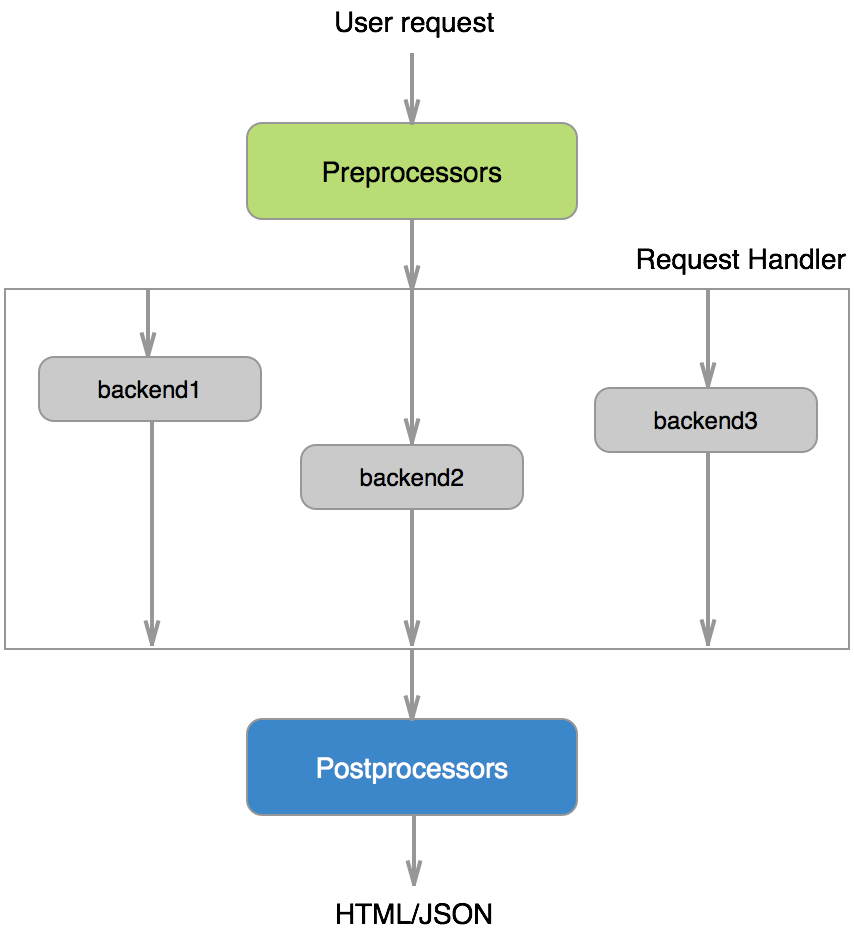
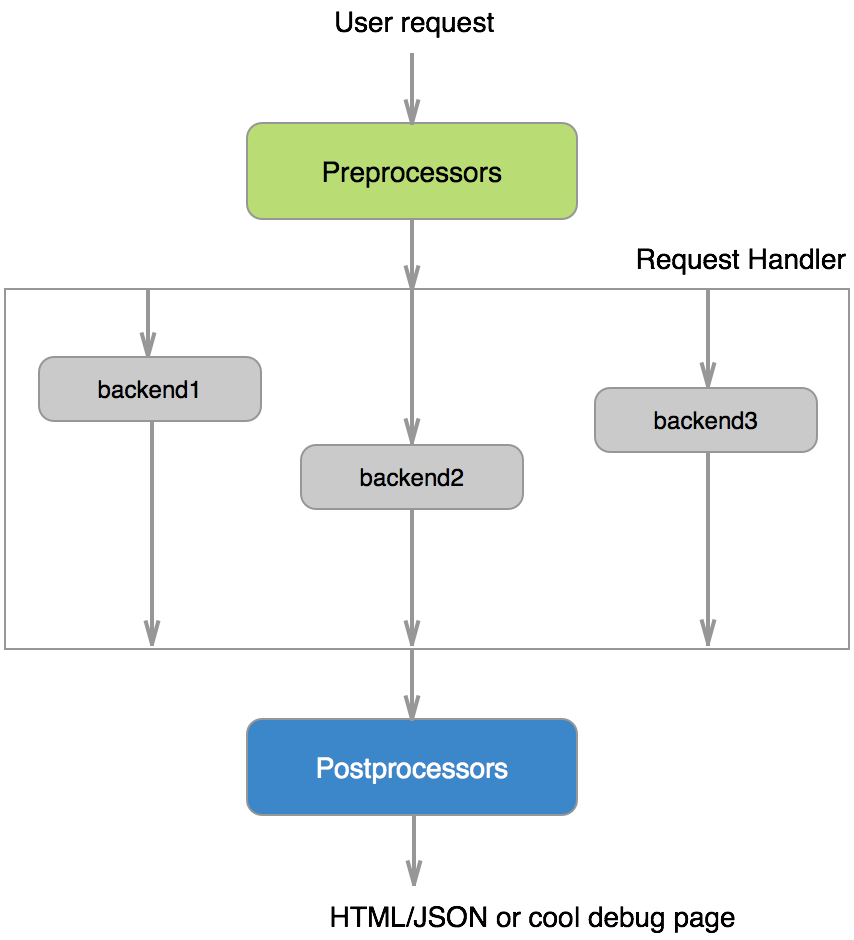
more documentation

Changed region(s): [[0.3653, 0.9564, 0.8525, 1.0]]

diff --git a/index.html b/index.html
@@ -24,8 +24,7 @@
 	    <div class="content">
 	    	<p>Provides a group of asynchronous handlers before main handler starts to work.</p>
 	    	<p><pre>
-<code>
-def session(handler, callback):
+<code>def session(handler, callback):
 	def _cb():
         # json/xml parsed automatically and put into handler.responses[&lt;request name&gt;].data
         handler.session = handler.responses['session'].data
@@ -40,22 +39,90 @@ def session(handler, callback):
             data=data, # data is a dict of parameters to pass to backend
         ),
         callback=_cb,
-        stage='session'
+        stage='session' # something about stages goes later
     )
 
-def PageHandler(tortik.page.RequestHandler):
+def Page(tortik.page.RequestHandler):
 	preprocessors = [
 	    session,
 	    pagedata
 	]
 
 	def get(self):  # all get/post/.. methods are asynchronous by default
-	    # handler.session available now
+	    # self.session is available now
 	    self.complete() # use it instead of self.finish to apply postprocessors 
-
 </code></pre></p>
 	    </div>
 
+	    <h2>Stages</h2>
+        <div class="content">
+            <p>All the request handling could be divided into parts: fetching session, do some user related stuff (request backends for data or post smth.), render a page. This parts are called stages in Tortik. Stages provide a better way to find perfomance issues or bottlenecks in your application.</p>
+            <p>Stage name could be passed as a parameter to <i>fetch_requests</i> method (default is <i>page</i>):</p>
+<p><pre><code class="python">handler.fetch_requests(
+    ...
+    callback=_cb,
+    stage='session'
+)                
+</code></pre></p>   
+            <p>or could be done manually:</p>         
+            <p><pre>
+<code>handler.log.stage_started('render')
+# do some hard render stuff
+handler.log.stage_complete('render')</code></pre></p>   
+            <p>After request handle completed a debug note would be printed:</p>
+            <p><pre>
+<code>MONIK handler=hhmobile.pages.Page method=GET code=200 total=93 session=13.98 page=47.14 render=21.77 translation=7.30</code></pre></p>   
+            <p>which means that request done with <i>hhmobile.pages.Page</i> and took total 93ms with stages: session, page, render and translation</p>
+        </div>  
+
+	    <h2>Request handler</h2>
+        <div class="content">
+            <p>All the standart Tornado method handlers (get, post, ...) are @asynchronous by default and you don't need to put this decorator every time.</p>
+            <p>The output data could be prepared by two ways:</p>
+            <ul>
+                <li>with <i>self.add</i> method</li>
+                <li>as an argument to <i>self.complete</i> </li>
+            </ul>
+<p><pre><code class="python">def Page(tortik.page.RequestHandler):
+    self.add('main_data', 'Hello, World!')
+    self.complete({'some_data': 'Hello, World!'})
+</code></pre></p>
+            <p>The difference is that in the second option your data passes directly to the postprocessors (more on them later) or to the <i>self.finish</i> method if there is no postprocessors in your handler.</p>
+            <p>In the first option your data is available in <i>self.data</i> dictionary and could be processed later.</p>
+        </div>
+
+        <h2>Postprocessors</h2>
+        <div class="content">
+        <p>Postprocessors is a set of handlers on your output data which run after <i>complete</i> method called.</p>
+<p><pre><code class="python">def template(handler, data, callback): # data is an argument passed to self.complete method
+    out = template_engine.render(handler.template_name,
+                                 data=handler.data, # dict of our self.add calls {'main_data': 'Hello, World!'}
+                                 ...)
+    callback(handler, out)
+
+def Page(tortik.page.RequestHandler):
+    postprocessors = [
+        template
+    ]
+
+    def get(self):
+        # do some handler stuff
+        self.add('main_data', 'Hello, World!')
+        self.complete()
+</code></pre></p>
+        <p>The result of <i>template_engine.render</i> would be transfered to the client.</p>
+        </div>
+
+	    <h2>Debug and logging</h2>
+        <div class="content">
+        <p>Tortik provides a standart method for logging with <i>self.log</i> object.</p>
+        <p>But the most powerfull feature is a debug page there you can see your page processing:</p>
+        <img src="img/debug.png">
+        <p>Information about every request to the backend:</p>
+        <img src="img/debug_more.png">
+        <p>You should pass a <i>?debug</i> argument to the page and page processing would be displayed.</p>
+        <p><b>NOTE</b> You should manually protect your application in production enviroment from the unwanted users to see this page there the sensitive data could be displayed.</p>
+        </div>
 	</div>
     <script type="text/javascript" src="js/highlight.min.js" charset="utf-8"></script>
     <script type="text/javascript">
